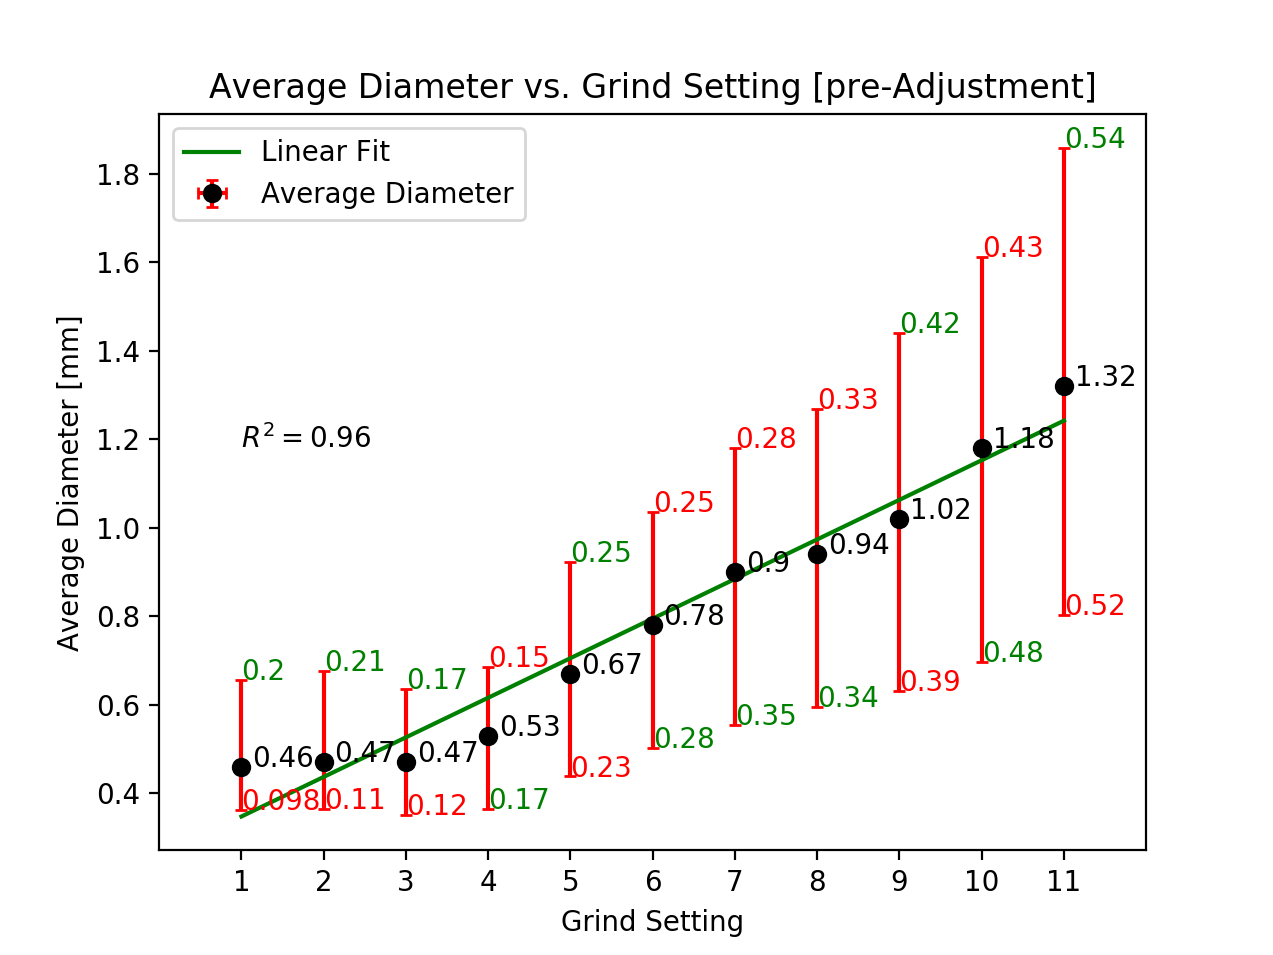
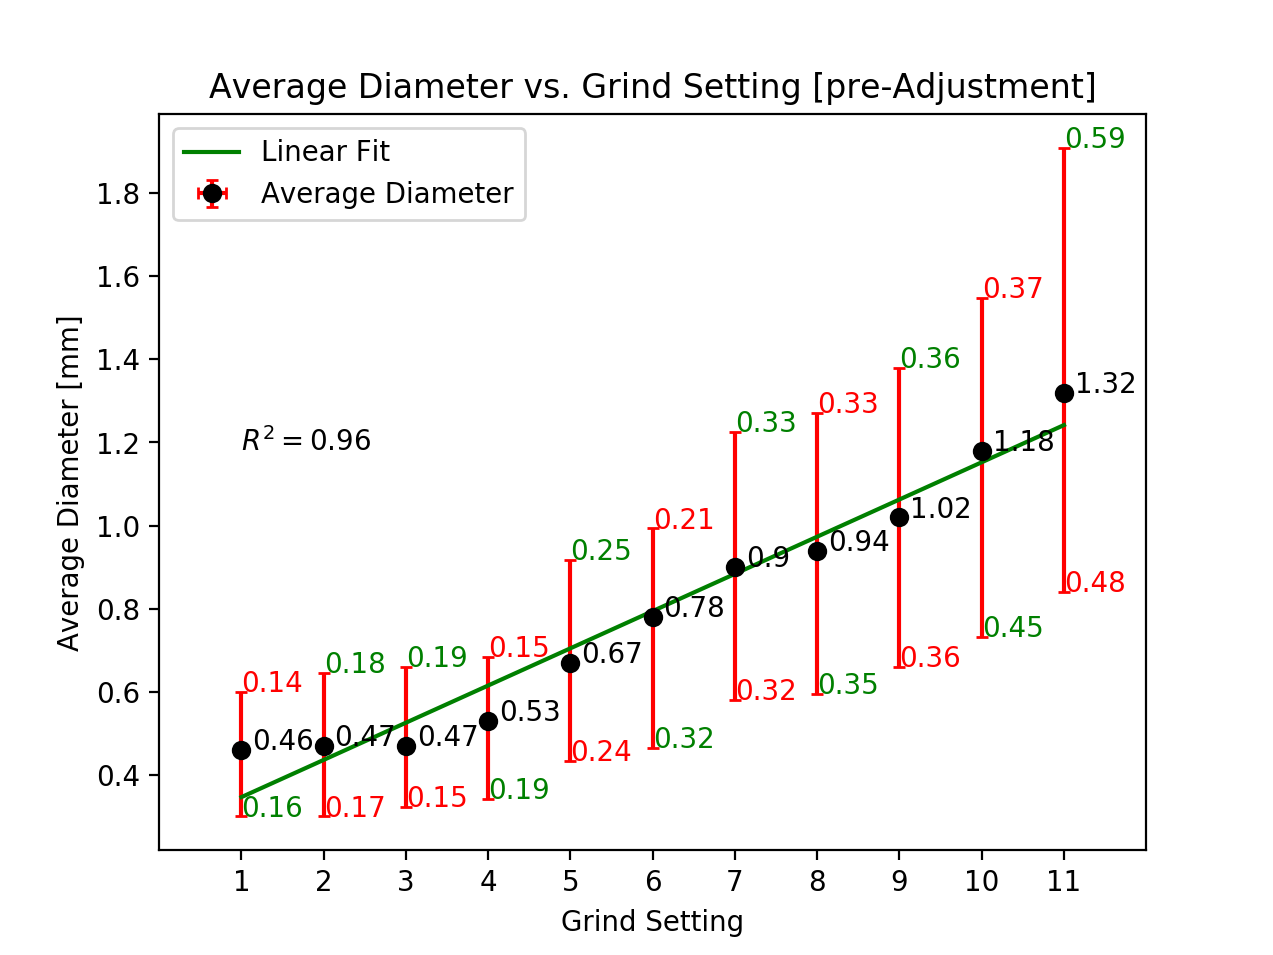
fixed typos and added a variable pass to errorCalc

diff --git a/errorCalc.py b/errorCalc.py
@@ -11,11 +11,10 @@ import definitions
 
 # This code is directly taken from a portion of J Gagne's code
 
-def posNegError(data,whichInformation):
+def posNegError(data,whichInformation,coffeeCellSize):
 
     ## ID, surface, roundness, shortaxis, longaxis, volume, pixelscale
     scale = data[:,6]
-    coffee_cell_size=20
     default_binsize = .1
     default_log_binsize = .05
     default_bin_inflate = 1
@@ -27,7 +26,7 @@ def posNegError(data,whichInformation):
     diameter = 2*np.sqrt(data[:,4]*data[:,3])/scale
     attainable_masses = attainableMass.attainable_mass_simulate(volumes)
 
-    data_weights = np.maximum(np.ceil(attainable_masses/(coffee_cell_size/1e3)**3),1) 
+    data_weights = np.maximum(np.ceil(attainable_masses/(coffeeCellSize/1e3)**3),1) 
 
     # generally how to calculate the average and std_dev value for a given stat
 #    data_average = np.sum(data*data_weights)/np.sum(data_weights)

diff --git a/grinderAnalysis.py b/grinderAnalysis.py
@@ -28,7 +28,7 @@ def main(N,preOrPost,dataPath,smallestIncrement,coffeeCellSize,whichInformation)
         dataArray = np.array(pd.read_csv("{}/setting{}.csv".format(dataPath,a)))
 
         # retrieve error values from exterior function
-        epos,eneg = errorCalc.posNegError(dataArray,whichInformation)
+        epos,eneg = errorCalc.posNegError(dataArray,whichInformation,coffeeCellSize)
 
         # append value 1 sigma positive and 1 sigma negative the average value calculated above
         stdUpper.append(epos)
@@ -49,7 +49,7 @@ def main(N,preOrPost,dataPath,smallestIncrement,coffeeCellSize,whichInformation)
             data = dataTypes[2]
             pltTitle = "Average Surface Area"
             units = "mm^2"
-        return data, dataError
+        return data
     dataType(whichInformation)
 
 

diff --git a/callFile.py b/callFile.py
@@ -46,6 +46,7 @@ if __name__ == "__main__":
             print("Please enter a float, not an integer")
         else:
             break
+
     print()  
     # Coffee cell size, this value does not seem to change the data in any places larger than hundreths. 
     while True:
@@ -55,6 +56,7 @@ if __name__ == "__main__":
         else:
             coffeeCellSize = 20
             break
+
     print()
     # Ask which data is interesting, average diameter or average surface area
     while True:

diff --git a/attainableMass.py b/attainableMass.py
@@ -10,7 +10,7 @@ from scipy import stats as stats
 import matplotlib.pyplot as plt
 
 
-# This function weights larger particles higher so long as there is more accessible surface are for extraction
+# This function weights larger particles higher so long as there is more accessible surface area for extraction
 def attainable_mass_simulate(volumes):
         
         #This could be done better analytically
